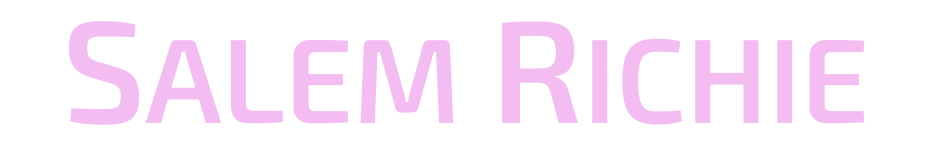
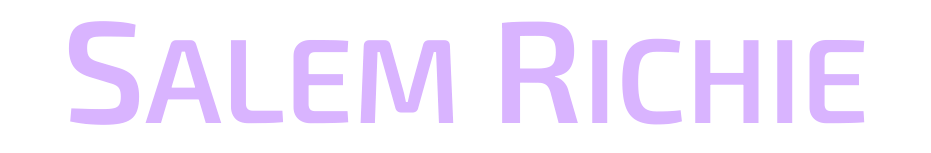
Colors update!

Changed region(s): [[0.0623, 0.1307, 0.4984, 0.8105], [0.5295, 0.1307, 0.9345, 0.8105]]

diff --git a/main.css b/main.css
@@ -76,15 +76,15 @@ body{
     font-family:Lato,Helvetica,Arial,sans-serif;
     font-size:16px;
     line-height:1.58;
-    color:#555;
+    color:#310612;
     background-color:#fff
 }
 a{
-    color:rgb(173, 0, 179);
+    color:rgb(105, 9, 151);
     text-decoration:underline
 }
 a:focus,a:hover{
-    color:#bd3ec9;
+    color:#8421fa;
     text-decoration:underline
 }
 a:focus{
@@ -101,7 +101,7 @@ img{
     height:auto;
     border-radius: 20px;
     border-color:#a1396d;
-    border:4px solid rgba(110, 66, 103, 0.797);
+    border:4px solid rgba(71, 18, 106, 0.8);
 }
 [role=button]{
     cursor:pointer
@@ -110,12 +110,12 @@ img{
     font-family:Oswald,Helvetica,Arial,sans-serif;
     font-weight:400;
     line-height:1.1;
-    color:#000
+    color:#310719
 }
 .h1 .small,.h1 small,.h2 .small,.h2 small,.h3 .small,.h3 small,.h4 .small,.h4 small,.h5 .small,.h5 small,.h6 .small,.h6 small,h1 .small,h1 small,h2 .small,h2 small,h3 .small,h3 small,h4 .small,h4 small,h5 .small,h5 small,h6 .small,h6 small{
     font-weight:400;
     line-height:1;
-    color:rgb(132, 35, 146)
+    color:rgb(85, 6, 150)
 }
 .h1,.h2,.h3,h1,h2,h3{
     margin-top:25px;
@@ -396,9 +396,9 @@ caption{
     margin-right:auto
 }
 body{
-    background-image:-webkit-linear-gradient(top,#401a4b,#6e1974);
-    background-image:-o-linear-gradient(top,#401a4b,#6e1974 100%);
-    background-image:linear-gradient(180deg,#401a4b,#6e1974);
+    background-image:-webkit-linear-gradient(top,#630024,#aa24b4);
+    background-image:-o-linear-gradient(top,#40171d,#630024 100%);
+    background-image:linear-gradient(180deg,#49152f,#331020); /* real background color */
     background-repeat:repeat-x
 }
 body.white{
@@ -406,7 +406,7 @@ body.white{
     background-image:none
 }
 .white-text-container .fa-icon,.white-text-container a,.white-text-container h1,.white-text-container h2,.white-text-container h3,.white-text-container h4,.white-text-container h5,.white-text-container p{
-    color:rgb(255, 226, 251);
+    color:rgb(213, 184, 255);
     font-family: 'Exo 2';
 }
 .content-wrapper{
@@ -440,8 +440,8 @@ body.white{
 }
 .card{
     border-radius:1.85rem;
-    background-color:rgb(230, 201, 223);
-    border:4px solid rgba(110, 66, 103, 0.797);
+    background-color:rgb(209, 179, 223);
+    border:4px solid rgb(157, 120, 188);
     margin-bottom:3rem
 }
 .card .h2,.card h2{
@@ -589,7 +589,7 @@ body.white{
     .card-block h2 
     {
       text-align:center;
-      background: linear-gradient(to right, #00000000 0%, #234f5a00 43%, #8228851c 46%, #97255322 50%, #8228851c 54%, #234f5a00 57%, #00000000 100%);
+      background: linear-gradient(to right, #0000 0%, #234f5a00 41%, #4b0c621c 43%, #5d126821 50%, #4b0c621c 57%, #234f5a00 59%, #0000 100%);
       padding:6px;
     }
 
